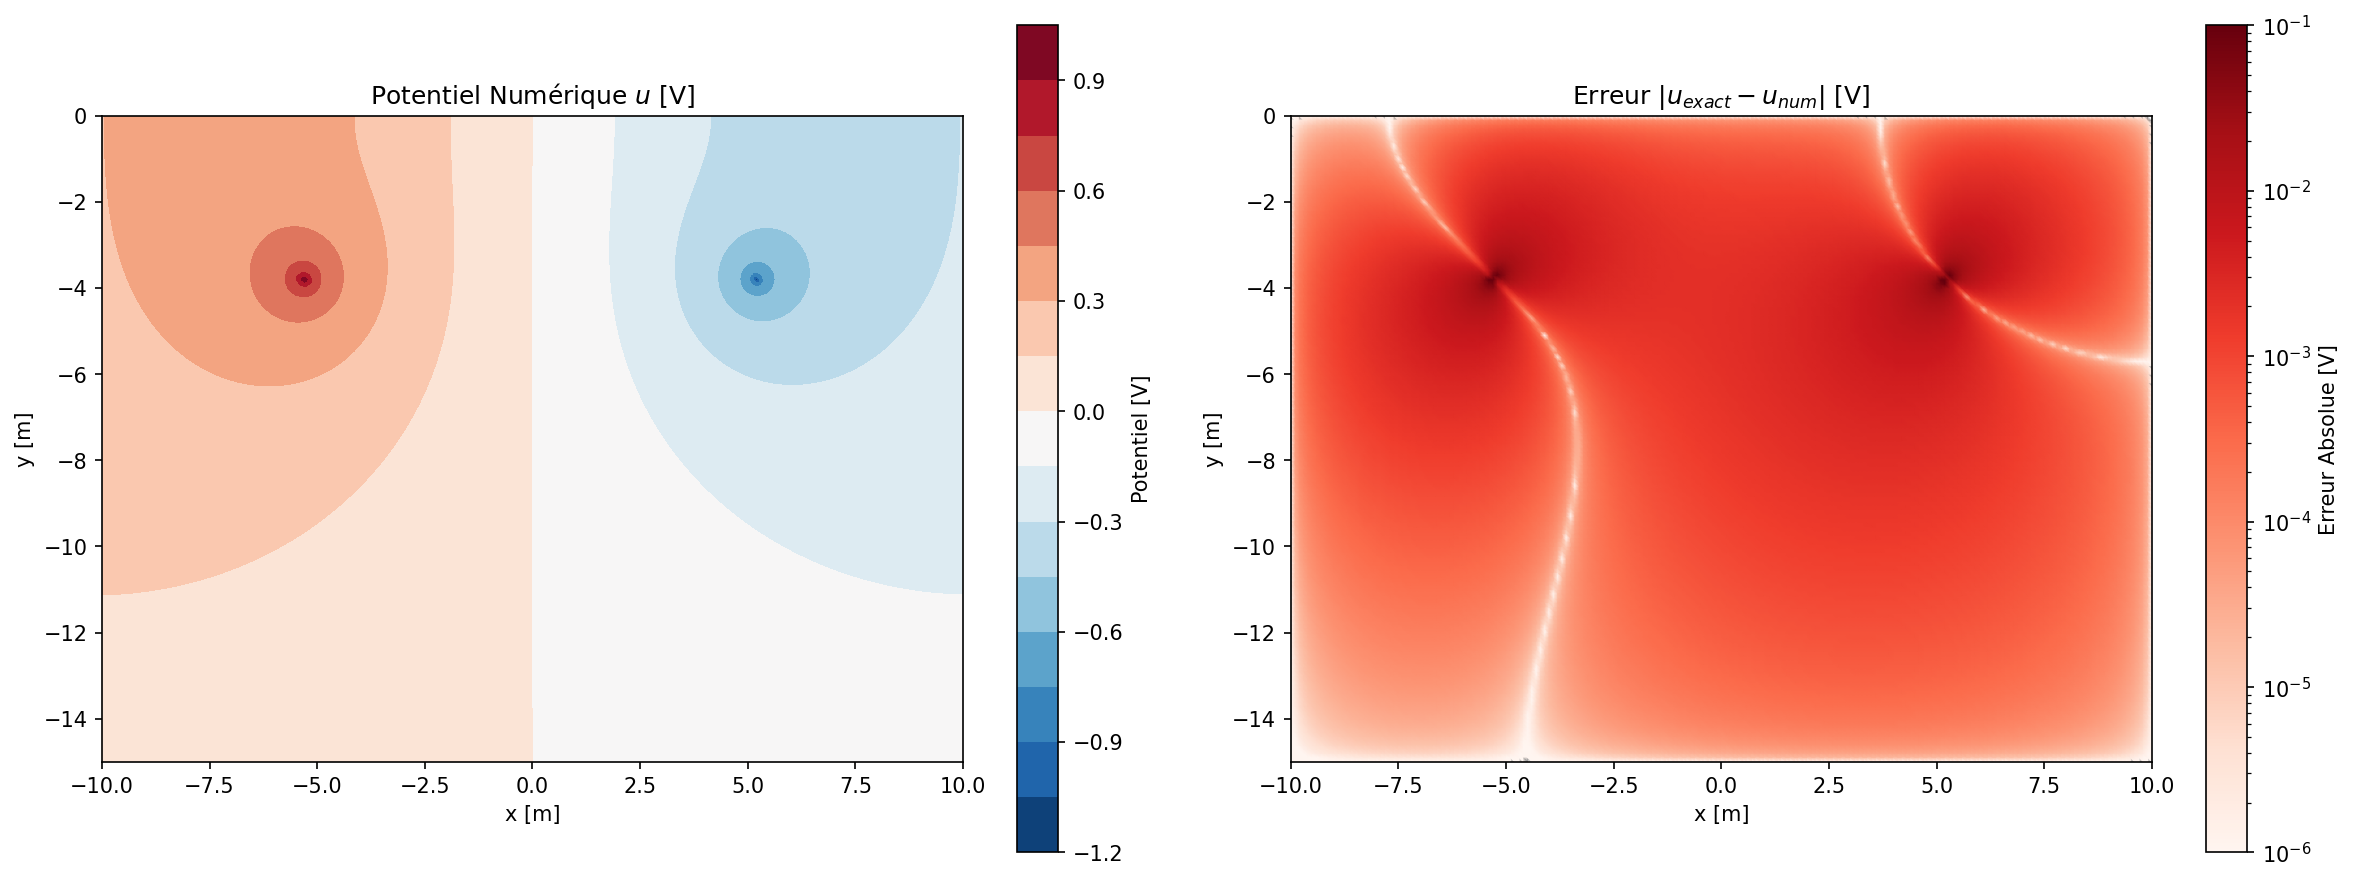
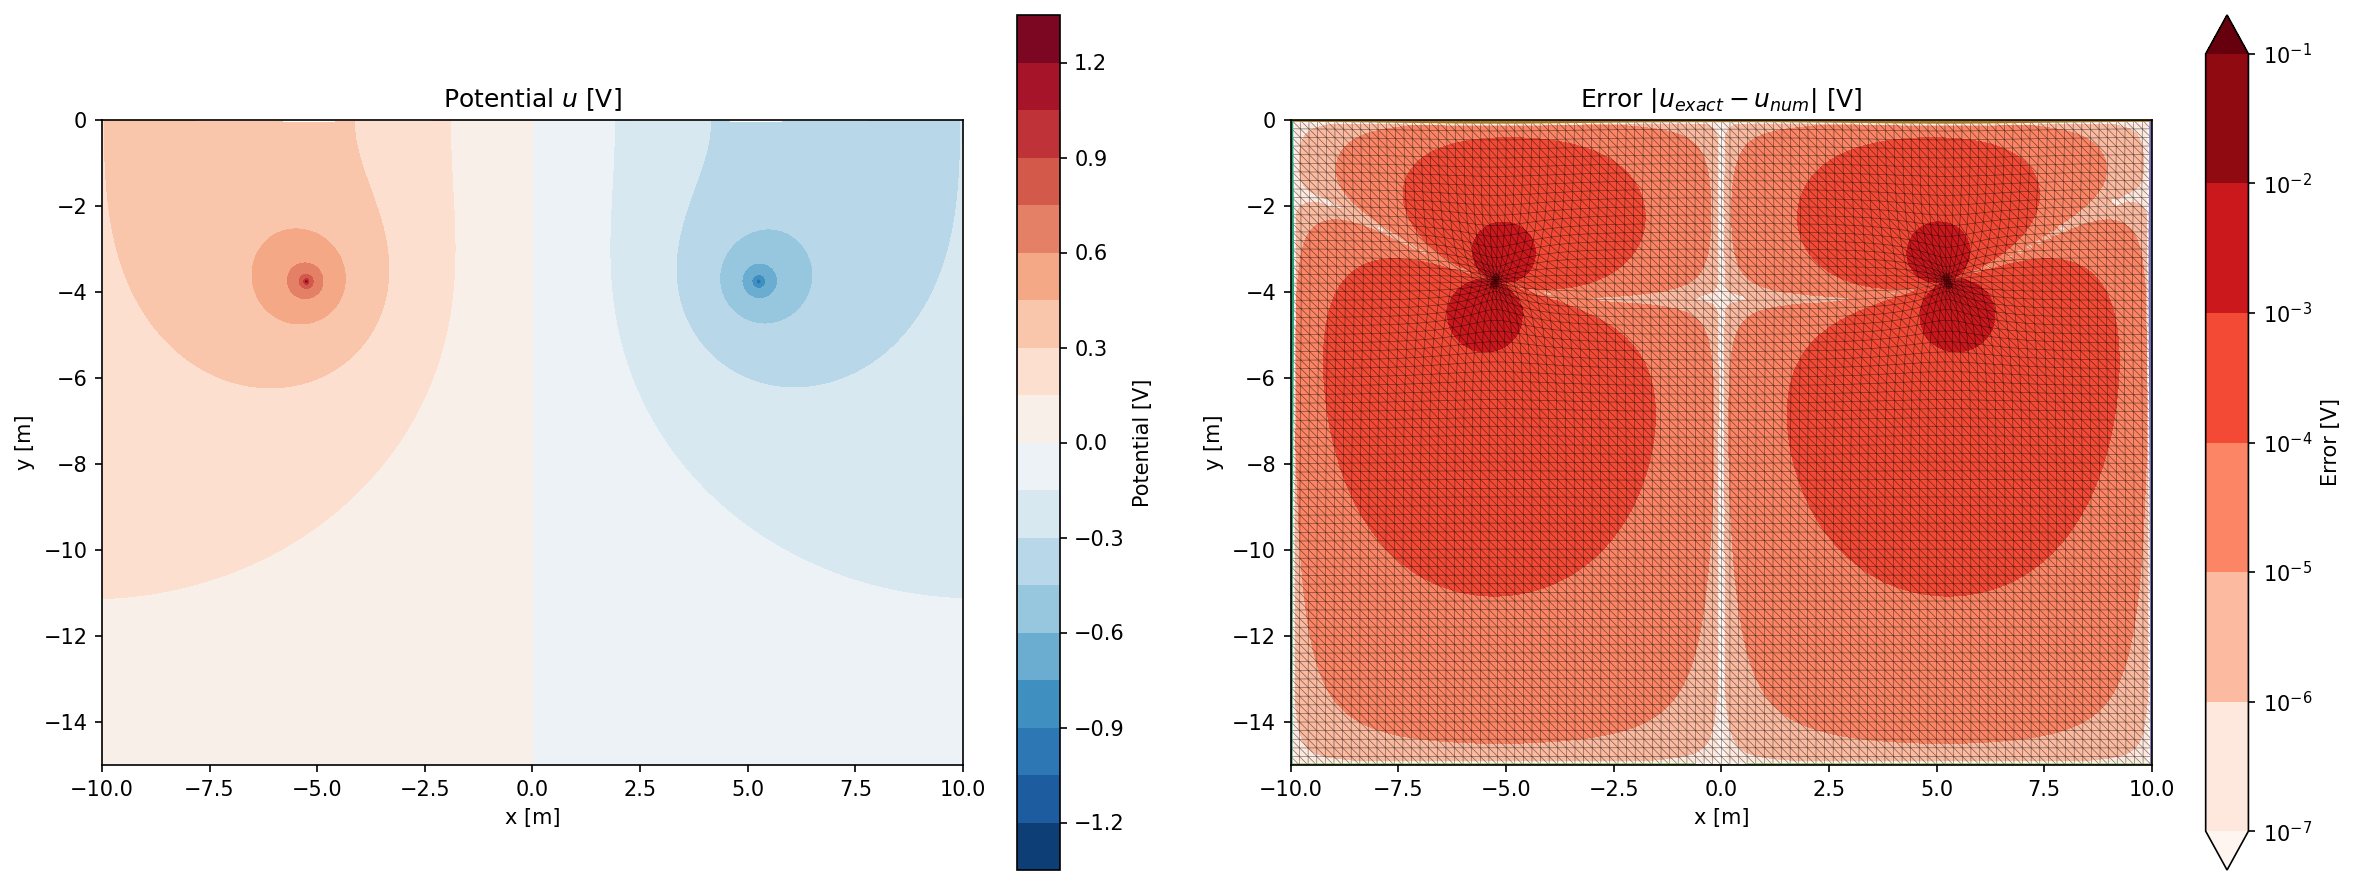
pas trop pire

diff --git a/test_scripts/2.5D_DCERT_analytical.py b/test_scripts/2.5D_DCERT_analytical.py
@@ -1,125 +1,124 @@
+#!/usr/bin/env python
+"""
+2.5D Geoelectrical modeling: div(sigma*grad(u)) - sigma*k^2*u = -I*delta(r-r_s)
+Following Dey & Morrison (1979) for mixed boundary conditions
+"""
 import numpy as np
 import matplotlib.pyplot as plt
-from firedrake import *
-from scipy.special import k0
-from firedrake.pyplot import tricontourf, tripcolor
 import matplotlib.ticker as ticker
+from firedrake import *
+from firedrake.pyplot import tricontourf, triplot
+from scipy.special import k0
 
-# 1. Configuration
-source_A = (-5.25, -3.75)
-source_B = (5.25, -3.75)
-k_val = 1e-2
-sigma_val = 1.0
+# Parameters
+source_A, source_B = (-5.25, -3.75), (5.25, -3.75)
+k_val, sigma_val = 1e-2, 1.0
 
+# Create and translate mesh to [-10,10] x [-15,0]
 mesh = RectangleMesh(100, 75, 20.0, 15.0)
-mesh.coordinates.dat.data[:, 0] -= 10.0
-mesh.coordinates.dat.data[:, 1] -= 15.0
+X = mesh.coordinates
+with X.dat.vec as v:
+    arr = v.array.reshape((-1, 2))
+    arr[:, 0] -= 10.0
+    arr[:, 1] -= 15.0
 
-# 2. Raffinement par déformation (Warping)
-# On accède directement aux coordonnées pour les manipuler avec NumPy
-import numpy as np
-coords = mesh.coordinates.dat.data
-x_old = coords[:, 0].copy()
-y_old = coords[:, 1].copy()
+# Adaptive mesh refinement near sources
+# Why: Point sources create sharp singularities requiring fine resolution
+# How: Apply radial displacement inversely proportional to distance
+coords = mesh.coordinates.dat.data_ro
+x_old, y_old = coords[:, 0].copy(), coords[:, 1].copy()
+disp_x, disp_y = np.zeros_like(x_old), np.zeros_like(y_old)
 
-# --- Raffinement vertical (vers la surface y=0) ---
-# On utilise une fonction de puissance : plus l'exposant est élevé, 
-# plus les mailles sont écrasées vers le haut.
-depth_norm = np.abs(y_old) / 15.0  # de 1 (fond) à 0 (surface)
-coords[:, 1] = -15.0 * (depth_norm**2.0)  # L'exposant 2.0 densifie vers 0
+for sx, sy in [source_A, source_B]:
+    rx, ry = x_old - sx, y_old - sy
+    r = np.sqrt(rx**2 + ry**2) + 1e-8
+    w = 1.0 / (1.0 + (r / 1.0)**3)  # Weight: strong near source, weak far away
+    disp_x -= 0.8 * w * rx  # Pull nodes toward source
+    disp_y -= 0.8 * w * ry
 
-# --- Raffinement horizontal (vers le centre x=0) ---
-# On densifie vers le centre pour mieux capturer les deux électrodes
-x_norm = x_old / 10.0  # de -1 à 1
-coords[:, 0] = 10.0 * np.sign(x_norm) * (np.abs(x_norm)**1.5)
+X = mesh.coordinates
+with X.dat.vec as v:
+    arr = v.array.reshape((-1, 2))
+    arr[:, 0], arr[:, 1] = x_old + disp_x, y_old + disp_y
 
+# Function space (P2 = quadratic elements for better accuracy)
 V = FunctionSpace(mesh, "CG", 2)
 
-# 2. Solution Analytique (pour les BC et la comparaison)
-def get_analytical_solution(V, src_A, src_B, k, sigma):
-    u_ana = Function(V)
-    # Récupération des coordonnées des DOFs (nœuds de calcul)
+# Analytical solution following Dey & Morrison (1979)
+# Uses Bessel K0 function with mirror source at surface (y=0)
+def analytical_solution(V, src_A, src_B, k, sigma):
     v_coords = Function(VectorFunctionSpace(mesh, "CG", V.ufl_element().degree()))
     v_coords.interpolate(SpatialCoordinate(mesh))
     coords = v_coords.dat.data
     
-    def potential(src, coords):
-        r1 = np.sqrt((coords[:, 0] - src[0])**2 + (coords[:, 1] - src[1])**2)
-        r2 = np.sqrt((coords[:, 0] - src[0])**2 + (coords[:, 1] + src[1])**2) # Miroir
-        r1 = np.maximum(r1, 1e-10)
-        r2 = np.maximum(r2, 1e-10)
-        return (1.0 / (2.0 * np.pi * sigma)) * (k0(r1 * k) + k0(r2 * k))
-
-    u_ana.dat.data[:] = potential(src_A, coords) - potential(src_B, coords)
+    def potential(src):
+        # r_pos: distance to actual source
+        r_pos = np.maximum(np.sqrt((coords[:, 0] - src[0])**2 + (coords[:, 1] - src[1])**2), 1e-12)
+        # r_neg: distance to mirror source (reflected across y=0)
+        r_neg = np.maximum(np.sqrt((coords[:, 0] - src[0])**2 + (coords[:, 1] + src[1])**2), 1e-12)
+        # Potential: u = 1/(2π·σ) · [K₀(r_pos·k) + K₀(r_neg·k)]
+        return (1.0 / (2.0 * np.pi * sigma)) * (k0(r_pos * k) + k0(r_neg * k))
+    
+    u_ana = Function(V)
+    u_ana.dat.data[:] = potential(src_A) - potential(src_B)
     return u_ana
 
-u_exact = get_analytical_solution(V, source_A, source_B, k_val, sigma_val)
+u_exact = analytical_solution(V, source_A, source_B, k_val, sigma_val)
 
-# 3. Résolution Numérique "Manuelle"
-u = TrialFunction(V)
-v = TestFunction(V)
+# Numerical solution setup
+u, v = TrialFunction(V), TestFunction(V)
+
+# Weak form: ∫ σ∇u·∇v dx + ∫ σk²uv dx = ∫ I·δ(r-r_s)·v dx
+# Left side becomes matrix A, right side becomes vector b
 a = sigma_val * inner(grad(u), grad(v)) * dx + sigma_val * k_val**2 * u * v * dx
-L = Constant(0) * v * dx
+L = Constant(0) * v * dx  # Will add point sources manually
 
-# Condition de Dirichlet sur les bords (Indispensable pour comparer à l'analytique)
+# Dirichlet BC on boundaries (using analytical solution)
 bc = DirichletBC(V, u_exact, "on_boundary")
+A, b = assemble(a, bcs=bc), assemble(L)
 
-# Assemblage du système
-A = assemble(a, bcs=bc)
-b = assemble(L)
-
-# INJECTION MANUELLE : On trouve les indices des nœuds les plus proches
+# Point source injection: find DOFs (degrees of freedom) nearest to sources
+# DOFs are the mesh nodes where the solution is computed
+# For P2 elements: vertices + edge midpoints
 v_coords = Function(VectorFunctionSpace(mesh, "CG", V.ufl_element().degree()))
 v_coords.interpolate(SpatialCoordinate(mesh))
 coords = v_coords.dat.data
 
-def find_nearest_dof(target_coord, all_coords):
-    dists = np.sum((all_coords - target_coord)**2, axis=1)
-    return np.argmin(dists)
+def find_nearest_dof(target, all_coords):
+    return np.argmin(np.sum((all_coords - target)**2, axis=1))
 
-idx_A = find_nearest_dof(source_A, coords)
-idx_B = find_nearest_dof(source_B, coords)
+idx_A, idx_B = find_nearest_dof(source_A, coords), find_nearest_dof(source_B, coords)
 
-# On modifie le vecteur b directement (I=1A en A, I=-1A en B)
+# Inject current: +1A at source A, -1A at source B (dipole configuration)
 with b.dat.vec as b_vec:
     b_vec.setValue(idx_A, 1.0, addv=True)
     b_vec.setValue(idx_B, -1.0, addv=True)
 
+# Solve linear system A·u = b using direct LU factorization
 u_num = Function(V)
 solve(A, u_num, b, solver_parameters={'ksp_type': 'preonly', 'pc_type': 'lu'})
 
-# 4. Affichage
+# Plotting
 fig, axes = plt.subplots(1, 2, figsize=(16, 6))
 
-# 1. Plot du Potentiel (Linéaire)
+# Potential field
 cnt0 = tricontourf(u_num, axes=axes[0], levels=20, cmap='RdBu_r')
-axes[0].set_title("Potentiel Numérique $u$ [V]")
-plt.colorbar(cnt0, ax=axes[0], label='Potentiel [V]')
+axes[0].set_title("Potential $u$ [V]")
+plt.colorbar(cnt0, ax=axes[0], label='Potential [V]')
 
-# 2. Plot de l'Erreur (LogNorm en Volts)
-error_field = Function(V).interpolate(abs(u_num - u_exact))
-# On récupère les données et on applique un "clip"
-err_data = np.clip(error_field.dat.data, 1e-10, None)
-# On crée un champ avec le log10 des valeurs
+# Error field (log scale)
+error = Function(V).interpolate(abs(u_num - u_exact))
 error_log = Function(V)
-error_log.dat.data[:] = np.log10(err_data)
+error_log.dat.data[:] = np.log10(np.clip(error.dat.data, 1e-12, None))
 
-# 2. Définition des niveaux log (ex: de -7 à -1)
-levels_log = np.arange(-7, 0, 1) # Paliers : -7, -6, -5, -4, -3, -2, -1
+levels_log = np.arange(-7, 0, 1)
+cnt1 = tricontourf(error_log, levels=levels_log, extend='both', cmap='Reds', axes=axes[1])
+triplot(mesh, axes=axes[1], interior_kw={'edgecolor': 'black', 'linewidth': 0.3, 'alpha': 0.3})
+axes[1].set_title("Error $|u_{exact} - u_{num}|$ [V]")
 
-# 3. On plot le champ LOG avec des niveaux LINÉAIRES
-cnt1 = tricontourf(error_log, 
-                  levels=levels_log, 
-                  extend='both', 
-                  cmap='Reds', 
-                  axes=axes[1])
-
-axes[1].set_title("Erreur $|u_{exact} - u_{num}|$ [V]")
 cbar = plt.colorbar(cnt1, ax=axes[1], ticks=levels_log)
-def log_formatter(x, pos):
-    return f"$10^{{{int(x)}}}$"
-cbar.ax.yaxis.set_major_formatter(ticker.FuncFormatter(log_formatter))
-cbar.set_label('Erreur $|u_{exact} - u_{num}|$ [V]')
+cbar.ax.yaxis.set_major_formatter(ticker.FuncFormatter(lambda x, pos: f"$10^{{{int(x)}}}$"))
+cbar.set_label('Error [V]')
 
 for ax in axes:
     ax.set_aspect('equal')
@@ -129,4 +128,10 @@ for ax in axes:
     ax.set_ylabel("y [m]")
 
 plt.tight_layout()
-plt.savefig('firedrake_geoelectricV2.png', dpi=150, bbox_inches='tight')
+plt.savefig('firedrake_geoelectric.png', dpi=150, bbox_inches='tight')
+
+# Error norms
+L2_error = sqrt(assemble(inner(u_num - u_exact, u_num - u_exact) * dx))
+H1_error = sqrt(assemble(inner(grad(u_num - u_exact), grad(u_num - u_exact)) * dx))
+print(f"L2 error: {L2_error:.6e}")
+print(f"H1 error: {H1_error:.6e}")
